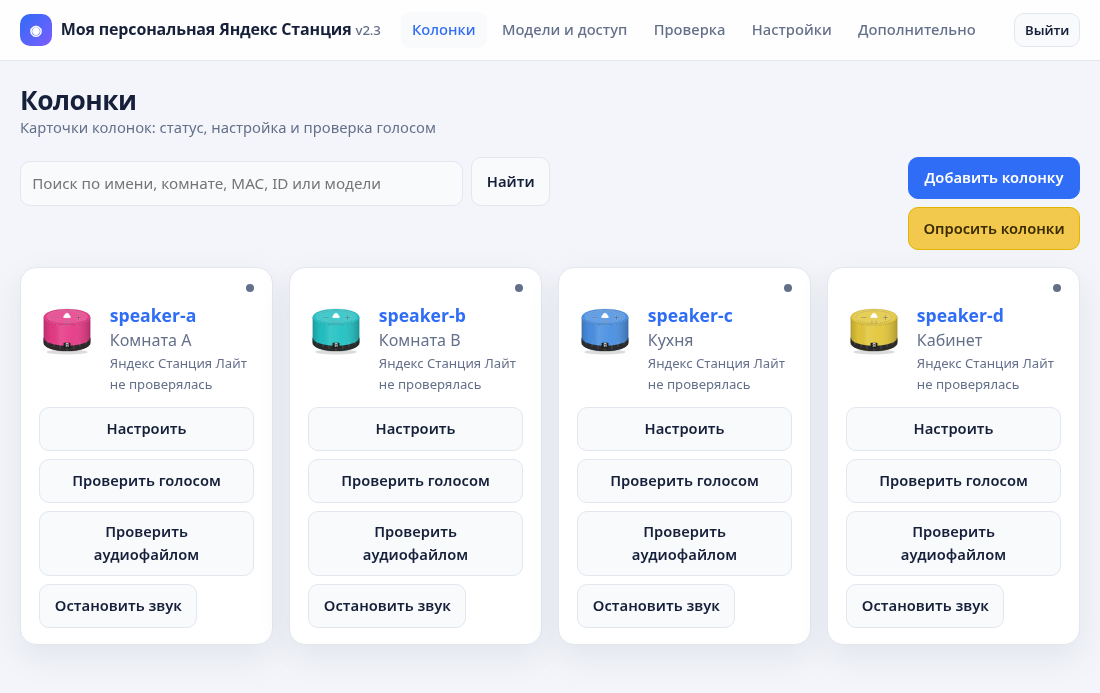
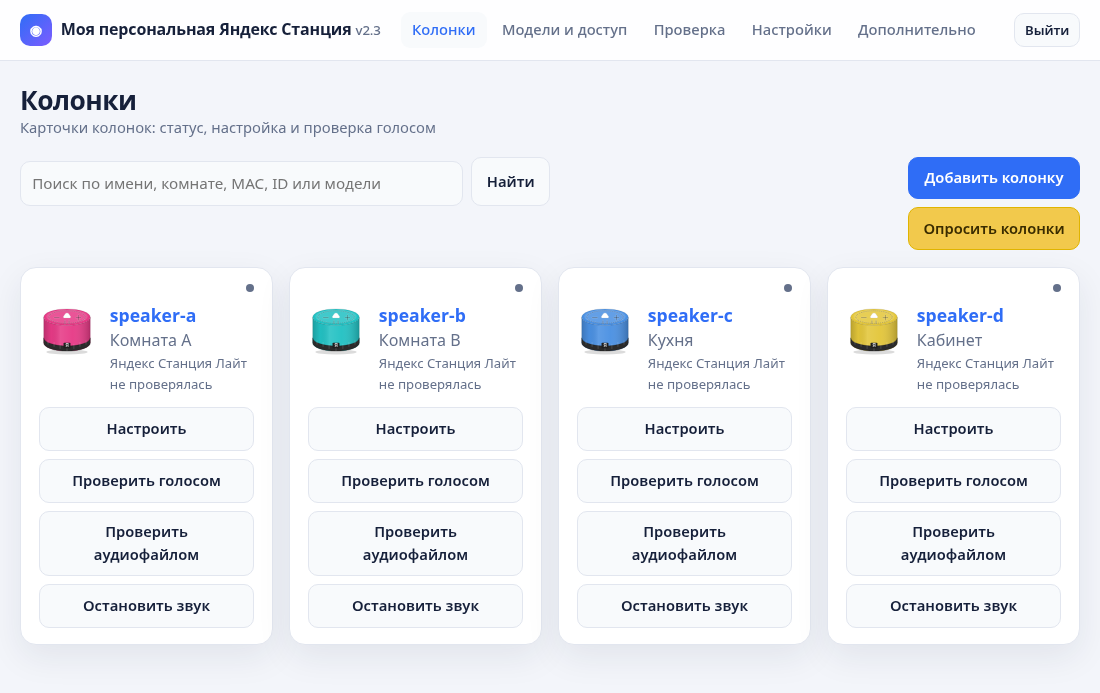
fix(webui): stretch the stop button on speaker cards

diff --git a/webui/static/app.css b/webui/static/app.css
@@ -727,6 +727,8 @@ tr[id^="route-"] { scroll-margin-top: 5.5rem; }
   flex: 1 1 auto;
   min-height: 44px;
 }
+.speaker-card-actions form { display: flex; }
+.speaker-card-actions form .btn { flex: 1 1 auto; }
 
 .mode-switch { margin: 0; }
 .mode-switch .btn { min-height: 32px; }
